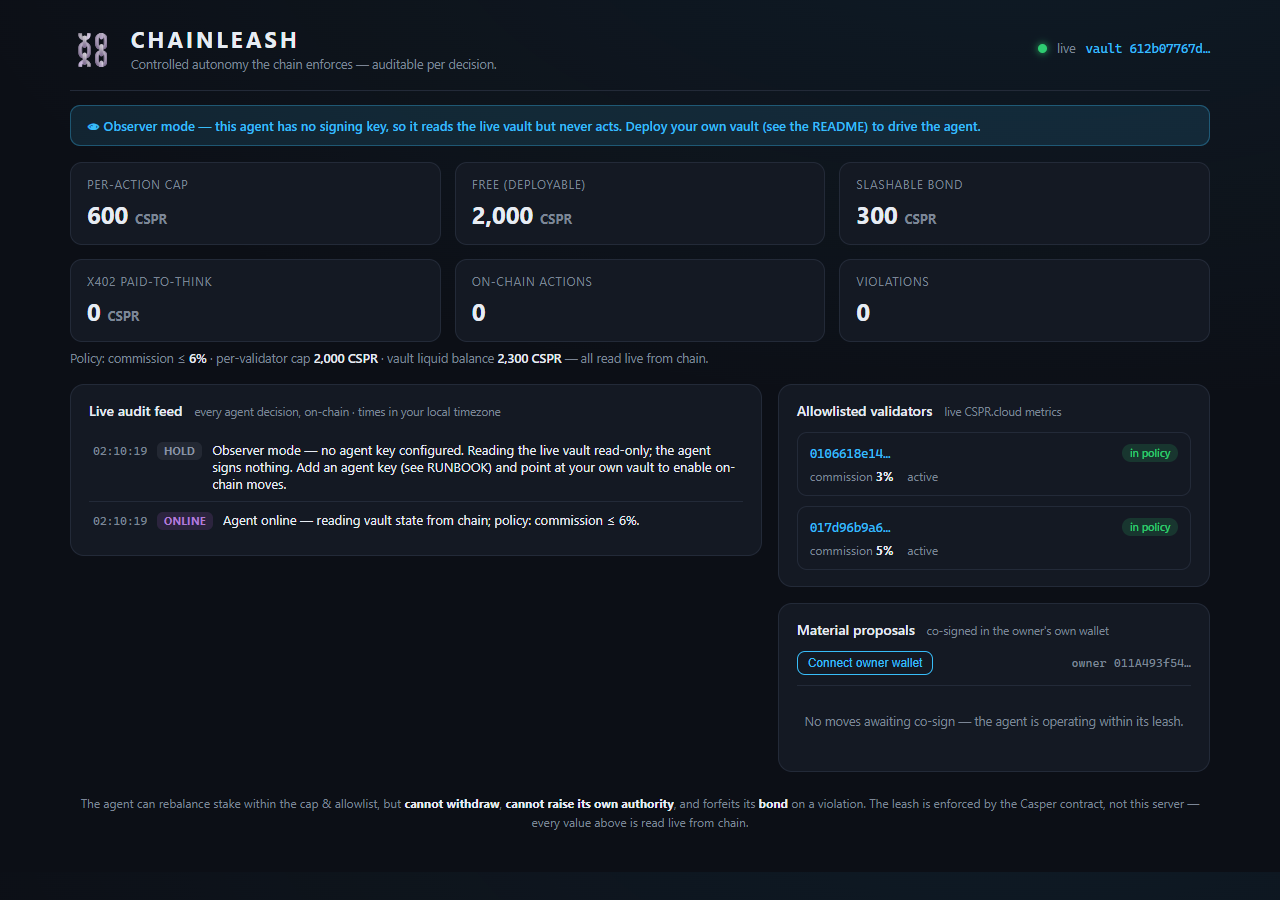
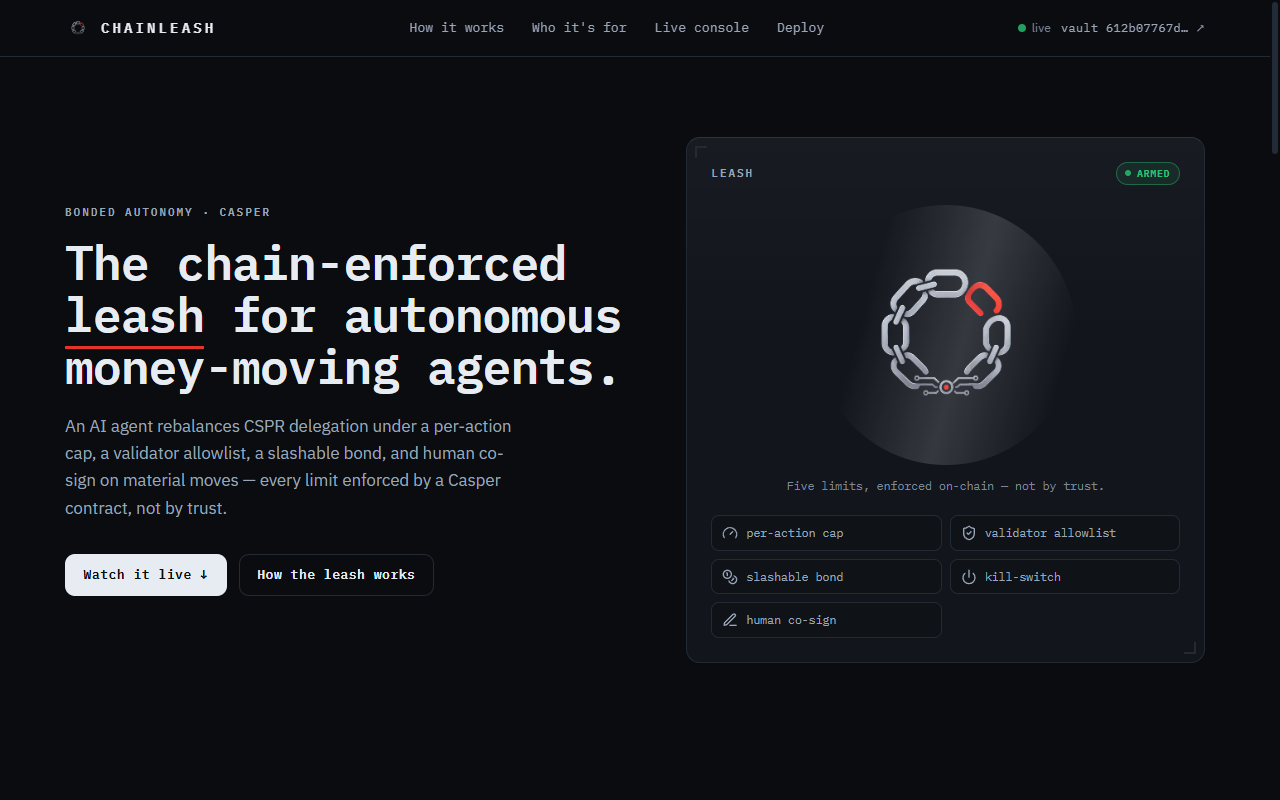
docs: README for the live deployment + redesign
- Live badge + link (chainleash.ekolsoft.com), updated status (auto-deployed
  from main via Actions).
- Describe the institutional-console redesign (hero leash instrument, self-host
  section) in the architecture section.
- Refresh the dashboard screenshot to the live, redesigned UI.

diff --git a/README.md b/README.md
@@ -7,8 +7,11 @@
 <p align="center"><em>The trust layer for autonomous money-moving agents on Casper — controlled autonomy the chain enforces, auditable per decision.</em></p>
 
 <p align="center">
+  <a href="https://chainleash.ekolsoft.com"><img src="https://img.shields.io/badge/live-chainleash.ekolsoft.com-29c275?style=flat-square" alt="Live demo" /></a>
   <a href="https://github.com/msanlisavas/chainleash/actions/workflows/ci.yml"><img src="https://github.com/msanlisavas/chainleash/actions/workflows/ci.yml/badge.svg" alt="CI" /></a>
 </p>
+
+<p align="center"><strong>Live on Casper 2.0 testnet → <a href="https://chainleash.ekolsoft.com">chainleash.ekolsoft.com</a></strong> — a real bonded agent rebalancing CSPR under the leash, streamed live.</p>
 
 **CHAINLEASH is the bonded, chain-enforced leash for autonomous money-moving agents on Casper** — an agent that can rebalance, but cannot steal.
 
@@ -21,7 +24,7 @@ slashable bond  ·  human co-sign on material moves  ·  one-call kill-switch
 
 <p align="center">
   <img src="assets/dashboard.png" alt="CHAINLEASH live dashboard" width="820" />
-  <br/><em>The live dashboard — every agent decision streamed on-chain, with the leash enforced by the Casper contract.</em>
+  <br/><em>The live dashboard at <a href="https://chainleash.ekolsoft.com">chainleash.ekolsoft.com</a> — the leash shown as a live ARMED / AWAITING / HALTED instrument, with every agent decision streamed on-chain.</em>
 </p>
 
 ## The leash: enforced by the chain, not the server
@@ -151,11 +154,11 @@ The agent's audit feed is **persisted** across restarts, and secrets are mounted
 
 - **Contracts** (`contracts/`) — Rust + Odra 2.7: the `GovernedVault` staking leash — delegate / undelegate / redelegate under a per-action cap, validator allowlist, per-validator cap, action cooldown, owner kill-switch, propose→approve material co-sign, a posted CSPR bond with on-chain violation log, and owner-only withdraw.
 - **Backend** (`backend/`) — .NET 10 + Casper C# SDK: the autonomous agent loop (`AgentWorker`), the perception layer (`ValidatorMonitor`, CSPR.cloud), the on-chain client (`CasperVault`), and the x402 pay-to-think buyer + provider.
-- **Frontend** (`frontend/`) — Angular dashboard: the **full leash state read live from chain** (per-action cap, free/total balance, slashable bond, per-validator cap, violations, and a prominent kill-switch banner when the owner pauses the agent), a live audit feed, the validator-policy view with per-validator committed stake, x402 spend, and the human co-sign action. It re-syncs the snapshot on reconnect and surfaces a clear banner if the agent API is unreachable. The owner **co-signs in their own wallet** via CSPR.click: the agent builds the *unsigned* `approve_material` transaction, the owner signs it in Casper Wallet in-browser, and the agent confirms the result on-chain — **the server holds only the owner's public key, never the secret**. (A server-key co-sign path exists for local dev but is **off by default**.)
+- **Frontend** (`frontend/`) — Angular 20 + Tailwind dashboard, designed as an **institutional control console** (graphite/steel palette with red reserved for enforcement, self-hosted IBM Plex). One scrolling page: a hero "leash instrument" that reflects live **ARMED / AWAITING CO-SIGN / HALTED** state, a how-it-works + guarantee explainer, a "Run your own" self-host section, and the live console — the **full leash state read live from chain** (per-action cap, free/total balance, slashable bond, per-validator cap, violations, and a prominent kill-switch banner when the owner pauses the agent), a live audit feed, the validator-policy view with per-validator committed stake, x402 spend, and the human co-sign action. It re-syncs the snapshot on reconnect and surfaces a clear banner if the agent API is unreachable. The owner **co-signs in their own wallet** via CSPR.click: the agent builds the *unsigned* `approve_material` transaction, the owner signs it in Casper Wallet in-browser, and the agent confirms the result on-chain — **the server holds only the owner's public key, never the secret**. (A server-key co-sign path exists for local dev but is **off by default**.)
 
 ## Status
 
-🚧 In active development for the **Casper Agentic Buildathon 2026** (submission due 2026-06-30). Live end-to-end on Casper 2.0 testnet, independently security-reviewed four times, and covered by 39 contract + 59 backend tests plus dashboard specs — all gated in CI. Built by [@msanlisavas](https://github.com/msanlisavas), maintainer of the Casper MCP Server.
+🚧 In active development for the **Casper Agentic Buildathon 2026** (submission due 2026-06-30). **Live end-to-end on Casper 2.0 testnet at [chainleash.ekolsoft.com](https://chainleash.ekolsoft.com)** (auto-deployed from `main` via GitHub Actions), independently security-reviewed four times, and covered by 39 contract + 59 backend tests plus dashboard specs — all gated in CI. Built by [@msanlisavas](https://github.com/msanlisavas), maintainer of the Casper MCP Server.
 
 ## License
 